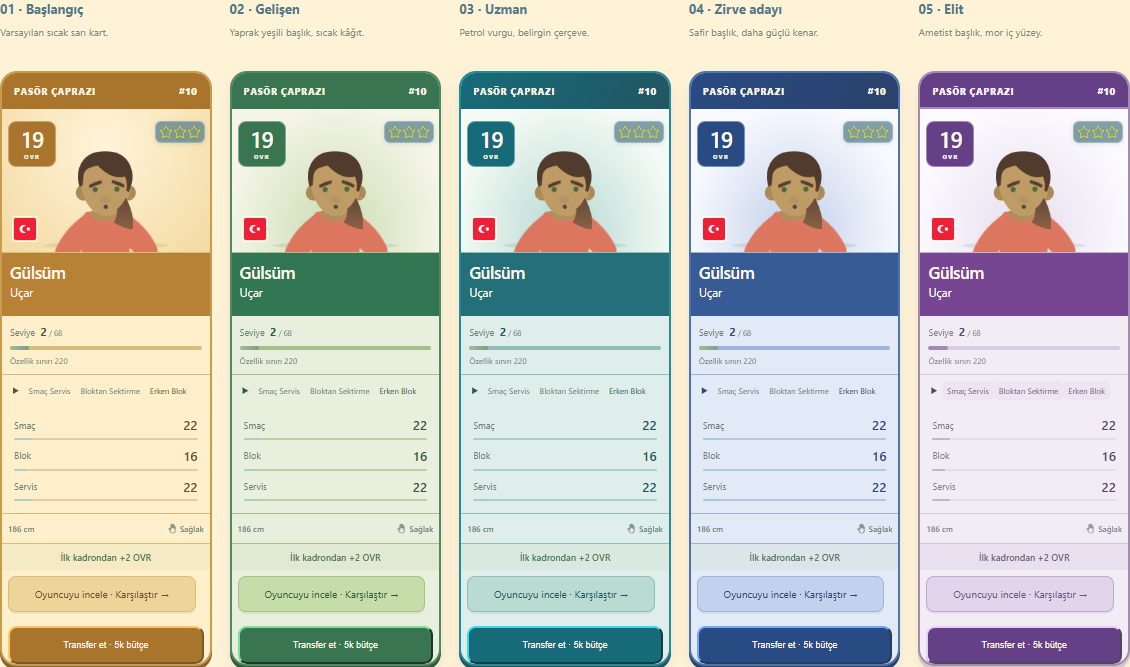
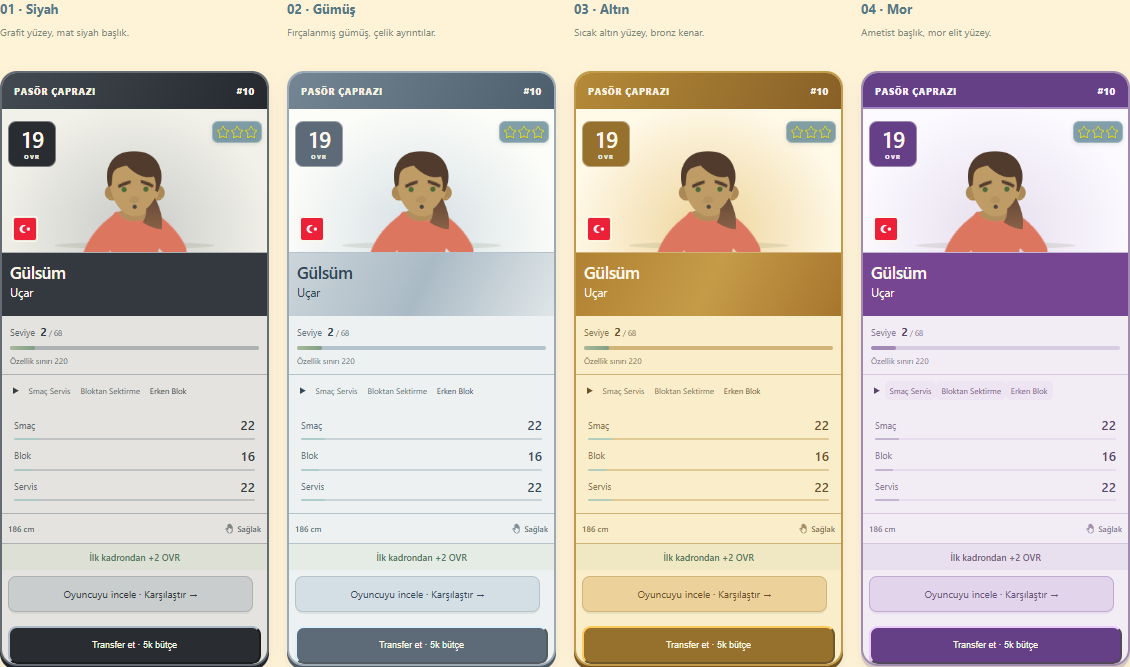
Try graphite silver gold and purple card progression

diff --git a/player-card-design-lab-v3.html b/player-card-design-lab-v3.html
@@ -63,4 +63,4 @@ function card(p,c){const full=state==='cap',legend=state==='legendary',level=ful
 let observer;function render(){document.getElementById('gallery').innerHTML=concepts.map(c=>'<section id="concept'+c.id+'" class="concept '+c.cls+' '+(picked===c.id?'favorite':'')+'"><div class="concept-head"><span class="index">0'+c.id+'</span><h2>'+c.name+'</h2><p>'+c.desc+'</p><div class="traits">'+c.tags.map(t=>'<span>'+t+'</span>').join('')+'</div><button class="pick" type="button" data-pick="'+c.id+'" aria-pressed="'+(picked===c.id)+'"><i>'+(picked===c.id?'✓':'')+'</i>'+(picked===c.id?'İşaretlendi':'Bu tasarımı işaretle')+'</button></div><div class="stage"><div class="stage-label"><span>'+c.note+'</span><span>ÖRNEK KARTLAR</span></div><div class="pair">'+people.map(p=>card(p,c)).join('')+'</div></div></section>').join('');if(observer){observer.disconnect();document.querySelectorAll('.concept').forEach(s=>observer.observe(s));}}
 function toast(text){const e=document.getElementById('toast');e.textContent=text;e.hidden=false;clearTimeout(toastTimer);toastTimer=setTimeout(()=>e.hidden=true,2300);}
 document.getElementById('starStyle').onchange=e=>{starStyle=e.target.value;render();};document.getElementById('state').onchange=e=>{state=e.target.value;render();};document.addEventListener('click',e=>{const theme=e.target.closest('button[data-theme]');if(theme){document.documentElement.dataset.theme=theme.dataset.theme;document.querySelectorAll('button[data-theme]').forEach(b=>b.setAttribute('aria-pressed',String(b===theme)));}const density=e.target.closest('button[data-density]');if(density){document.documentElement.dataset.density=density.dataset.density;document.querySelectorAll('button[data-density]').forEach(b=>b.setAttribute('aria-pressed',String(b===density)));}const pick=e.target.closest('[data-pick]');if(pick){picked=Number(pick.dataset.pick);document.querySelectorAll('.concept').forEach(s=>s.classList.toggle('favorite',s.id==='concept'+picked));document.querySelectorAll('[data-pick]').forEach(b=>{const active=Number(b.dataset.pick)===picked;b.setAttribute('aria-pressed',String(active));b.querySelector('i').textContent=active?'✓':'';b.lastChild.textContent=active?'İşaretlendi':'Bu tasarımı işaretle';});document.getElementById('selection').textContent='Seçimin: 0'+picked+' · '+concepts[picked-1].name;}const action=e.target.closest('[data-action]');if(action)toast({upgrade:'Önizleme · Kart yükseltme alanı',camp:'Önizleme · Antrenman kampı bağlantısı',lineup:'Önizleme · Kadro değişimi'}[action.dataset.action]);});render();observer=new IntersectionObserver(entries=>{for(const e of entries)if(e.isIntersecting)document.querySelectorAll('nav a').forEach(a=>a.setAttribute('aria-current',String(a.hash==='#'+e.target.id)));},{rootMargin:'-15% 0px -60% 0px'});document.querySelectorAll('.concept').forEach(s=>observer.observe(s));
-</script><script src="match-strip-design-lab.js?v=8fbe675705e3"></script><script src="shift-counter-design-lab.js?v=89a72503ad45"></script><script src="board-doodles.js?v=b3e832e167b9"></script><script src="advice-design-lab.js?v=b83c4f5696c1"></script><script src="flow-design-lab.js?v=dd64f7f0843b"></script><script src="elite-design-lab.js?v=946251a60e26"></script><script src="match-court-surface.js?v=57b3f03b5b57"></script><script src="court-design-lab.js?v=cc9cdd85acdc"></script><script src="academy-design-lab.js?v=9bca58dce187"></script></body></html>
+</script><script src="match-strip-design-lab.js?v=8fbe675705e3"></script><script src="shift-counter-design-lab.js?v=89a72503ad45"></script><script src="board-doodles.js?v=b3e832e167b9"></script><script src="advice-design-lab.js?v=b83c4f5696c1"></script><script src="flow-design-lab.js?v=dd64f7f0843b"></script><script src="elite-design-lab.js?v=17ce65113cd7"></script><script src="match-court-surface.js?v=57b3f03b5b57"></script><script src="court-design-lab.js?v=cc9cdd85acdc"></script><script src="academy-design-lab.js?v=9bca58dce187"></script></body></html>

diff --git a/card-design-preview.html b/card-design-preview.html
@@ -1,1 +1,1 @@
-<!doctype html><html lang="tr" class="elite-preview-page"><head><meta charset="utf-8"><meta name="viewport" content="width=device-width,initial-scale=1"><title>Oyuncu kartı tasarımları</title><link rel="stylesheet" href="team.css?v=bcffe6b92c1a"><link rel="stylesheet" href="styles/ui/player-club-card.css?v=7db91e9213cb"><link rel="stylesheet" href="styles/ui/transfer-center.css?v=7bcc2f214fba"><link rel="stylesheet" href="ui-components.css?v=7134f0d3ab29"><link rel="stylesheet" href="elite-design-preview.css?v=071914206336"></head><body><main id="scoutDialog"><section aria-labelledby="cardSeriesTitle"><header class="card-lab-heading"><small>KARTIN GÖRSEL GELİŞİMİ</small><h2 id="cardSeriesTitle">Sarı karttan elite</h2><p>Aynı oyuncu ve aynı OVR. Aşamalar, kartın görünüşünü karşılaştırmak içindir.</p></header><div id="cardProgression" class="card-lab-grid"></div></section><section aria-labelledby="potentialTitle"><header class="card-lab-heading"><small>AKADEMİ · POTANSİYELLİ GENÇLER</small><h2 id="potentialTitle">Geleceği henüz belli değil.</h2><p>Şimdiki OVR görünür. Mezuniyet gücü: ???</p></header><div id="eliteOptions" class="card-lab-grid"></div></section></main><script src="card-lab-template.js?v=f9ce24745e08"></script><script src="elite-design-preview.js?v=3f942979991b"></script></body></html>
+<!doctype html><html lang="tr" class="elite-preview-page"><head><meta charset="utf-8"><meta name="viewport" content="width=device-width,initial-scale=1"><title>Oyuncu kartı tasarımları</title><link rel="stylesheet" href="team.css?v=bcffe6b92c1a"><link rel="stylesheet" href="styles/ui/player-club-card.css?v=7db91e9213cb"><link rel="stylesheet" href="styles/ui/transfer-center.css?v=7bcc2f214fba"><link rel="stylesheet" href="ui-components.css?v=7134f0d3ab29"><link rel="stylesheet" href="elite-design-preview.css?v=5feb6ebeea7c"></head><body><main id="scoutDialog"><section aria-labelledby="cardSeriesTitle"><header class="card-lab-heading"><small>KARTIN GÖRSEL GELİŞİMİ</small><h2 id="cardSeriesTitle">Siyah · Gümüş · Altın · Mor</h2><p>Aynı oyuncu ve aynı OVR. Aşamalar, kartın görünüşünü karşılaştırmak içindir.</p></header><div id="cardProgression" class="card-lab-grid"></div></section><section aria-labelledby="potentialTitle"><header class="card-lab-heading"><small>AKADEMİ · POTANSİYELLİ GENÇLER</small><h2 id="potentialTitle">Geleceği henüz belli değil.</h2><p>Şimdiki OVR görünür. Mezuniyet gücü: ???</p></header><div id="eliteOptions" class="card-lab-grid"></div></section></main><script src="card-lab-template.js?v=f9ce24745e08"></script><script src="elite-design-preview.js?v=9668b90e8529"></script></body></html>

diff --git a/elite-design-lab.js b/elite-design-lab.js
@@ -1,3 +1,3 @@
 (function(){
-const section=document.createElement('section');section.id='elite-design-lab';section.className='wrap';section.style.cssText='scroll-margin-top:90px;margin:70px auto;padding:28px 0;border-top:1px solid #bdc9b6';section.innerHTML='<p>OYUNCU KARTLARI · GELİŞİM VE POTANSİYEL</p><h2>Kartın yolculuğu</h2><p>Üstte varsayılan sarı karttan elite doğru beş aşama; altta potansiyelli gençler için dört alternatif.</p><p id="eliteLabChoice" role="status"></p><iframe title="Oyuncu kartı alternatifleri" src="card-design-preview.html" loading="lazy" style="display:block;width:100%;height:1900px;border:0;border-radius:14px"></iframe>';document.body.append(section);const a=document.createElement('a');a.href='#elite-design-lab';a.textContent='Kart gelişimi ve potansiyel';document.querySelector('.navigation nav')?.append(a);addEventListener('message',e=>{if(e.source!==section.querySelector('iframe').contentWindow)return;if(e.data?.type==='elite-design-choice')document.getElementById('eliteLabChoice').textContent='Seçimin: '+e.data.name;if(e.data?.type==='card-design-size'&&Number.isFinite(e.data.height)&&e.data.height>=200&&e.data.height<15000)section.querySelector('iframe').style.height=Math.ceil(e.data.height)+'px';});if(location.hash==='#elite-design-lab')setTimeout(()=>section.scrollIntoView(),0);
+const section=document.createElement('section');section.id='elite-design-lab';section.className='wrap';section.style.cssText='scroll-margin-top:90px;margin:70px auto;padding:28px 0;border-top:1px solid #bdc9b6';section.innerHTML='<p>OYUNCU KARTLARI · GELİŞİM VE POTANSİYEL</p><h2>Kartın yolculuğu</h2><p>Üstte siyah, gümüş, altın ve mor kart sırası; altta potansiyelli gençler için dört alternatif.</p><p id="eliteLabChoice" role="status"></p><iframe title="Oyuncu kartı alternatifleri" src="card-design-preview.html" loading="lazy" style="display:block;width:100%;height:1900px;border:0;border-radius:14px"></iframe>';document.body.append(section);const a=document.createElement('a');a.href='#elite-design-lab';a.textContent='Kart gelişimi ve potansiyel';document.querySelector('.navigation nav')?.append(a);addEventListener('message',e=>{if(e.source!==section.querySelector('iframe').contentWindow)return;if(e.data?.type==='elite-design-choice')document.getElementById('eliteLabChoice').textContent='Seçimin: '+e.data.name;if(e.data?.type==='card-design-size'&&Number.isFinite(e.data.height)&&e.data.height>=200&&e.data.height<15000)section.querySelector('iframe').style.height=Math.ceil(e.data.height)+'px';});if(location.hash==='#elite-design-lab')setTimeout(()=>section.scrollIntoView(),0);
 })();

diff --git a/elite-design-preview.js b/elite-design-preview.js
@@ -5,7 +5,7 @@ function card(className,potential=false){
  if(potential){const note=document.createElement('div');note.className='card-potential';note.innerHTML='<span>Potansiyel</span><strong>???</strong>';note.title='Mezuniyet gücü eğitim sonunda belli olur. Şimdiki OVR üstte gösterilir.';el.querySelector('.card-cap').after(note);}
  return el;
 }
-const stages=[['yellow','01 · Başlangıç','Varsayılan sıcak sarı kart.'],['growing','02 · Gelişen','Yaprak yeşili başlık, sıcak kâğıt.'],['specialist','03 · Uzman','Petrol vurgu, belirgin çerçeve.'],['contender','04 · Zirve adayı','Safir başlık, daha güçlü kenar.'],['elite-player','05 · Elit','Ametist başlık, mor iç yüzey.']];
+const stages=[['growing','01 · Siyah','Grafit yüzey, mat siyah başlık.'],['specialist','02 · Gümüş','Fırçalanmış gümüş, çelik ayrıntılar.'],['contender','03 · Altın','Sıcak altın yüzey, bronz kenar.'],['elite-player','04 · Mor','Ametist başlık, mor elit yüzey.']];
 for(const [type,title,copy]of stages){const article=document.createElement('article');article.dataset.tier=type;const h=document.createElement('h3');h.textContent=title;const p=document.createElement('p');p.textContent=copy;article.append(h,p,card(type));document.getElementById('cardProgression').append(article);}
 const families=[['O','Normal referans','Karşılaştırmak için sarı kart.'],['A','Filiz','Zümrüt başlık ve isim alanı, yeşil iç yüzey.'],['B','Keşif','Bakır başlık, sıcak kayısı iç yüzey.'],['C','Ufuk','Tok petrol başlık, su yeşili iç yüzey.'],['D','Kıvılcım','Kiremit başlık, şeftali iç yüzey.']];
 for(const [id,name,copy]of families){const article=document.createElement('article');article.className='option-'+id;const h=document.createElement('h3');h.textContent=id+' · '+name;const p=document.createElement('p');p.textContent=copy;const face=card(id==='O'?'yellow':'potential-player',id!=='O');face.dataset.designVariant=id;const pick=document.createElement('button');pick.type='button';pick.className='elite-pick';pick.disabled=id==='O';pick.textContent=id==='O'?'Normal referans':'Bu tasarımı seç';pick.setAttribute('aria-pressed','false');pick.onclick=()=>{document.querySelectorAll('.elite-pick:not(:disabled)').forEach(b=>{b.setAttribute('aria-pressed',String(b===pick));b.textContent=b===pick?'Seçildi':'Bu tasarımı seç';});parent.postMessage({type:'elite-design-choice',name:id+' · '+name,kind:'academy-potential'},'*');};article.append(h,p,face,pick);document.getElementById('eliteOptions').append(article);}

diff --git a/elite-design-preview.css b/elite-design-preview.css
@@ -62,3 +62,15 @@ html #scoutDialog #eliteOptions .potential-player:not(.has-inline-comparison){bo
 #scoutDialog #cardProgression .yellow .card-art{background:radial-gradient(ellipse at 50% 25%,var(--club-port),var(--club-soft))!important}
 html #scoutDialog #cardProgression .yellow:not(.has-inline-comparison){border:2px solid var(--club-edge)!important;box-shadow:0 4px var(--club-shadow)!important}
 #scoutDialog #cardProgression .elite-player .card-top{background:var(--club-kit)!important}
+/* Material progression study: graphite, silver, gold, amethyst. */
+#cardProgression.card-lab-grid{grid-template-columns:repeat(4,minmax(0,1fr))}
+#scoutDialog #cardProgression .growing{--club-kit:#292d32;--club-edge:#656b73;--club-shadow:#202328;--club-paper:#e4e3df;--club-soft:#c9cbc9;--club-name:#34393f;--club-port:#f2f1e9;--club-ink:#343b41;--club-muted:#62696c;--club-line:#adb1b2;--club-action:#c9cdcd}
+#scoutDialog #cardProgression .specialist{--club-kit:#5d6b79;--club-edge:#9caab5;--club-shadow:#4e5964;--club-paper:#eef1f2;--club-soft:#d6dfe4;--club-name:#b5c1c9;--club-port:#fcfdf9;--club-ink:#354b5b;--club-muted:#627683;--club-line:#b5c3cc;--club-action:#d4dfe5}
+#scoutDialog #cardProgression .contender{--club-kit:#96702d;--club-edge:#c29a48;--club-shadow:#735321;--club-paper:#faedca;--club-soft:#eed49b;--club-name:#b38431;--club-port:#fff9e8;--club-ink:#6e5128;--club-muted:#8b754d;--club-line:#d1b578;--club-action:#ecd29a}
+#scoutDialog #cardProgression .specialist .card-name,#scoutDialog #cardProgression .specialist .card-name *{color:#2f4655!important}
+#scoutDialog #cardProgression .growing .card-top{background:linear-gradient(115deg,#434a52,#25292e)!important}
+#scoutDialog #cardProgression .specialist .card-top{background:linear-gradient(115deg,#748694,#4d5e6d)!important}
+#scoutDialog #cardProgression .contender .card-top{background:linear-gradient(115deg,#b58a38,#886027)!important}
+#scoutDialog #cardProgression .specialist .card-name{background:linear-gradient(115deg,#ccd5da,#aabac5,#e0e6e8)!important}
+#scoutDialog #cardProgression .contender .card-name{background:linear-gradient(115deg,#b08132,#c59b48,#a7762d)!important}
+@media(max-width:760px){#cardProgression.card-lab-grid{grid-template-columns:repeat(2,minmax(0,1fr))}}

diff --git a/DESIGN-SYSTEM.md b/DESIGN-SYSTEM.md
@@ -33,7 +33,7 @@ Son inceleme ve tutarlılık düzeltmeleri: 24 Ekim 2026. Bu dosya, kullanıcın
 18. Akademi mezunu aynı isim/portreyle gelir. Elit sonuç mevcut mor oyuncu kartını kullanır; beyaza yakın portre zemini ve aynı kart sırası korunur. Ayrı elit etiketi yok. Normal mezuniyet kayıp olarak gösterilmez.
 19. Akademide yön ve yetenek kararları gencin gerçek portresiyle küçük konuşma penceresinde sunulur. Genç birinci ağızdan “Hocam, hangi yönümü geliştireyim?” / “Hocam, bugün hangi yeteneği çalışayım?” diye sorar. Seçim kaydolunca kısa yanıt verir, yumuşakça kapanır. Aynı menü ziyaretinde en fazla bir otomatik konuşma; diğer gençler portrelerindeki konuşma işaretinden açılır. Kapatılan soru aynı genç/aşama için otomatik tekrarlanmaz; manuel tekrar mümkündür. Eğitim beklemez.
 20. Maç kadrosu başlığının ortasında As / Yedek switch'i bulunur. As görünümü mevcut ilk altı/liberoyu, Yedek görünümü mevcut yedek koleksiyonunu aynı yüzeyde gösterir. Switch kadroyu değiştirmez. Portre/kart anatomisi, yükseltme, pozisyon filtresi ve mevcut oyuncu değişimi korunur. Tahtadan veya transferden oyuncuya yönlendirme, oyuncunun bulunduğu görünümü açar. Rol başına özel yedek ataması ve otomatik rotasyon henüz bu görünüm geçişine dahil değildir.
-21. Kart tasarım laboratuvarında üst sırada sarı başlangıç → gelişen → uzman → zirve adayı → mor elit görsel sırası bulunur. Seviye ilerleyişi potansiyel alternatifleriyle aynı dolu renk kimliğini kullanır: sıcak kehribar → yaprak yeşili → petrol → safir → ametist. Başlık, OVR, isim alanı ve transfer düğmesi tok renktir; isim yazısı krem, iç yüzey aynı rengin açık tonudur. Çerçeve ve alt gölge kimliği tamamlar; neon ve sürekli parlama yoktur. Alt sıra potansiyelli gençlerde tok zümrüt/bakır/petrol/kiremit başlık, dolu renkli isim alanı ve Potansiyel ??? şeridi kullanır. İç yüzey aynı rengin açık tonudur; eylem düğmesi ve çerçeve aynı kimliği taşır. Mor elit görünümü kullanılmaz. Mevcut OVR sayısaldır, gelecekteki güç Potansiyel ??? olarak gösterilir. Sıralama yalnız tasarım önerisidir; yeni oyun ilerleme kuralları eklemez. Karakter .86 ölçekle 8px aşağı alınır; üretim portre kırpması değişmez.
+21. Kart tasarım laboratuvarında üst sırada son istek doğrultusunda dört materyal alternatifi bulunur: siyah grafit → gümüş → altın → mor elit. Gümüş ve altın isim alanlarında hafif sabit metalik geçiş vardır; gümüş isim yazısı koyudur. Başlık, OVR, isim alanı ve transfer düğmesi tok renktir; gümüş dışındaki isim yazıları krem, iç yüzey aynı rengin açık tonudur. Çerçeve ve alt gölge kimliği tamamlar; neon ve sürekli parlama yoktur. Alt sıra potansiyelli gençlerde tok zümrüt/bakır/petrol/kiremit başlık, dolu renkli isim alanı ve Potansiyel ??? şeridi kullanır. İç yüzey aynı rengin açık tonudur; eylem düğmesi ve çerçeve aynı kimliği taşır. Mor elit görünümü kullanılmaz. Mevcut OVR sayısaldır, gelecekteki güç Potansiyel ??? olarak gösterilir. Sıralama yalnız tasarım önerisidir; yeni oyun ilerleme kuralları eklemez. Karakter .86 ölçekle 8px aşağı alınır; üretim portre kırpması değişmez.
 
 ### Potansiyelli genç kartı alternatifleri
 
